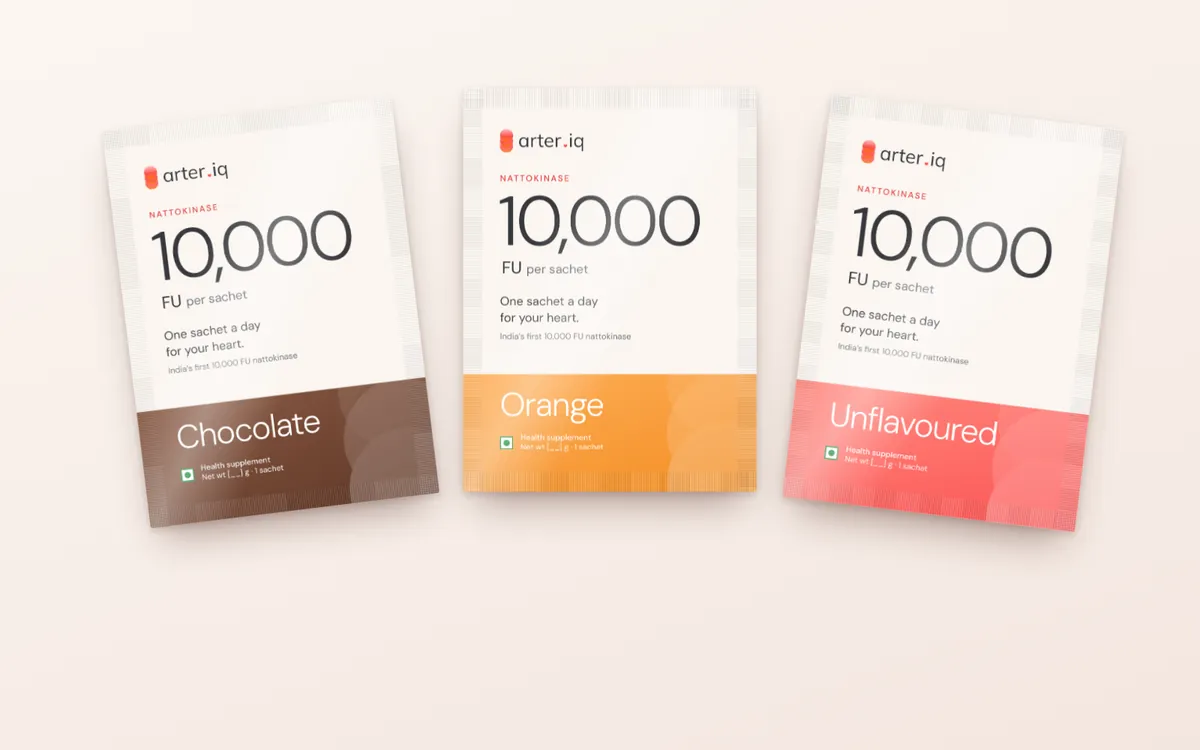
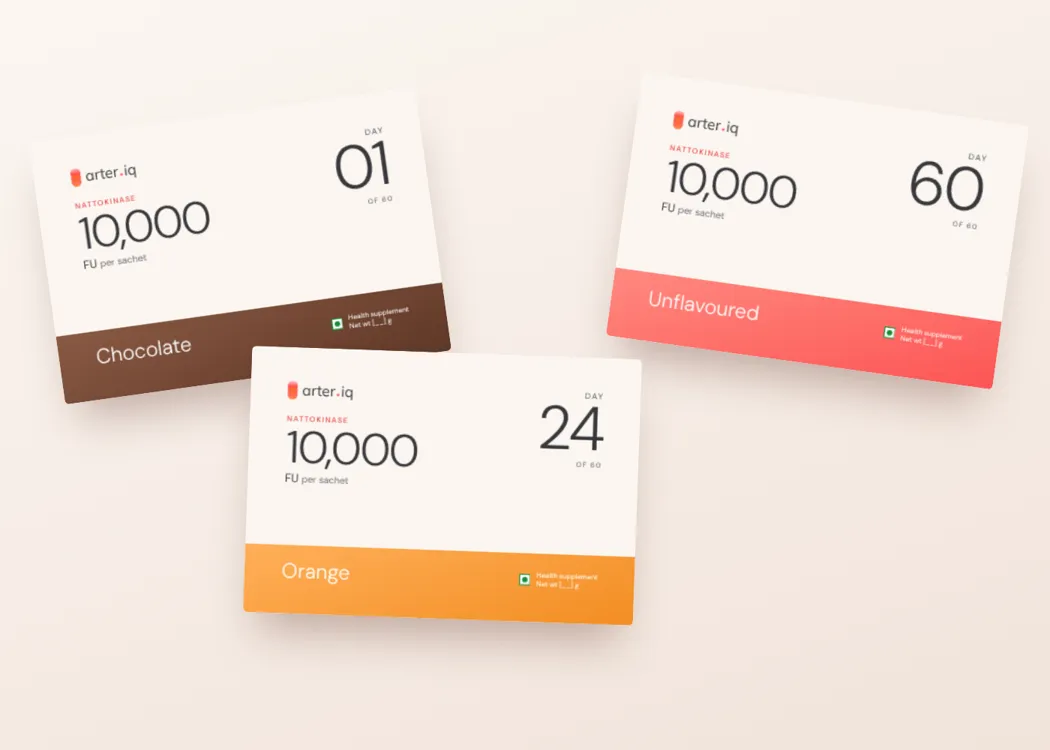
Proof Loop Protocol 60 Box: new packaging, flavour picker merged into offer
Claude-Session: https://claude.ai/code/session_01PkeobWmfrChtD7SqVdFZLv

Changed region(s): [[0.0305, 0.1533, 0.9752, 0.8893]]

diff --git a/index.html b/index.html
@@ -690,6 +690,30 @@ a{color:#4A5163}a:hover{color:#E63E3E}
 .opb::before{content:"";width:14px;height:14px;border-radius:50%;background:var(--fc)}
 .opb.on{border-color:var(--fc);box-shadow:0 0 0 1px var(--fc) inset}
 @media (max-width:1000px){.flg{grid-template-columns:minmax(0,1fr);gap:20px}.flc{padding:16px 18px}.fln{font-size:20px}.fld{width:36px;height:36px}.flrange{margin-top:28px;border-radius:24px}.flv{border-radius:24px}}
+/* p60 merged offer */
+.offrow{grid-template-columns:minmax(0,1fr)!important;gap:22px!important}
+.p60{display:grid;grid-template-columns:minmax(0,1.05fr) minmax(0,1fr);border-radius:40px;overflow:hidden;background:rgba(255,255,255,.96);border:1px solid rgba(255,255,255,.95);box-shadow:0 50px 100px -40px rgba(160,40,40,.35)}
+.p60v{position:relative;display:flex;flex-direction:column;justify-content:center;gap:16px;padding:18px;background:linear-gradient(170deg,#FBF6F1,#EFE2DA);overflow:hidden}.p60img{position:relative;aspect-ratio:1/1.01;border-radius:26px;overflow:hidden}
+.p60v .flimg{object-fit:cover;object-position:50% 40%}
+.p60badge{position:absolute;left:34px;top:34px;z-index:2;padding:9px 14px;border-radius:999px;background:rgba(255,255,255,.9);font-size:13px;color:#4A5163}
+.p60badge b{font-weight:500}
+.p60t{position:relative;display:grid;grid-template-columns:1fr 1fr;gap:12px}
+.p60t figure{margin:0;border-radius:18px;overflow:hidden;background:rgba(255,255,255,.92);box-shadow:0 18px 40px -24px rgba(90,40,30,.5)}
+.p60t img{display:block;width:100%;aspect-ratio:16/10;object-fit:cover}
+.p60t figcaption{padding:8px 12px 10px;font-size:12px;color:#5A6080}
+.ostep{display:flex;flex-direction:column;gap:2px}
+.osn{display:inline-grid;place-items:center;width:22px;height:22px;margin-right:10px;border-radius:50%;background:#FC5050;color:#fff;font-size:11px;letter-spacing:0;vertical-align:1px}
+.flr3{display:grid;grid-template-columns:repeat(3,minmax(0,1fr));gap:10px}
+.p60 .flc{display:flex;flex-direction:column;align-items:flex-start;gap:6px;padding:16px 16px 14px;border-radius:20px;position:relative}
+.p60 .flc .fld{width:30px;height:30px}.p60 .flc .fln{font-size:18px}.p60 .flc .flt{font-size:12.5px}
+.p60 .flc.on::after{content:"✓";position:absolute;right:12px;top:12px;width:20px;height:20px;border-radius:50%;background:var(--fc);color:#fff;font-size:11px;display:grid;place-items:center}
+.osub{font-size:14px;color:#7E8495}
+.obuy{display:flex;align-items:flex-end;justify-content:space-between;gap:16px;flex-wrap:wrap;padding-top:6px;border-top:1px solid #F1ECE8}
+.caps{display:grid!important;grid-template-columns:220px minmax(0,1fr) auto;align-items:center;gap:30px!important;padding:26px 34px!important}
+.caps .capimg{height:180px;width:220px}
+.capm{display:flex;flex-direction:column;gap:8px}.caps .caph{font-size:32px;margin:0}
+.caps .capf{margin:0;padding:0;flex-direction:column;align-items:flex-end}
+@media (max-width:1000px){.p60{grid-template-columns:minmax(0,1fr);border-radius:28px}.p60v{padding:12px;gap:10px}.p60img{border-radius:18px}.p60badge{left:22px;top:22px}.p60t{gap:8px}.p60t figcaption{font-size:11px;padding:6px 9px 8px}.flr3{gap:8px}.p60 .flc{padding:12px 10px}.p60 .flc .fln{font-size:15px}.p60 .flc .flt{display:none}.p60 .obody{padding:26px 20px}.p60 .h2{font-size:32px!important}.caps{grid-template-columns:minmax(0,1fr)!important;padding:24px 20px!important;gap:14px!important}.caps .capimg{width:100%;height:220px}.caps .capf{flex-direction:row;align-items:flex-end;justify-content:space-between}}
 /* reviews */
 .rvrow{display:flex;gap:20px;width:max-content;animation:marq 70s linear infinite}
 .rvrow.rev{animation:marqr 80s linear infinite}
@@ -867,7 +891,7 @@ a{color:#4A5163}a:hover{color:#E63E3E}
 <div class="sprog" aria-hidden="true"></div>
 <header class="hdr"><div class="hbar">
 <a href="#top" aria-label="Arter.IQ home" style="text-decoration:none"><span style="display:inline-flex;align-items:center;gap:7px"><svg width="19" height="35" viewBox="0 0 22 40" aria-hidden="true" style="flex:none"><defs><linearGradient id="lm1" x1="0" y1="0" x2="0" y2="1"><stop offset="0" stop-color="#FFC4BE"></stop><stop offset=".55" stop-color="#FC5050"></stop><stop offset="1" stop-color="#FE7A15"></stop></linearGradient></defs><circle cx="11" cy="29" r="11" fill="url(#lm1)" opacity=".85"></circle><circle cx="11" cy="20" r="11" fill="url(#lm1)" opacity=".92"></circle><circle cx="11" cy="11" r="11" fill="url(#lm1)"></circle></svg><span class="logo" style="font-size:28px;color:#FFFFFF">arter<svg viewBox="0 0 24 24" aria-hidden="true" style="display:inline-block;width:.24em;height:.24em;margin:0 .07em 0 .09em;vertical-align:baseline"><path fill="#FC5050" d="M12 21s-7.5-4.6-9.6-9.2C.9 8.5 3 4.5 6.8 4.5c2.2 0 3.6 1.2 5.2 3 1.6-1.8 3-3 5.2-3 3.8 0 5.9 4 4.4 7.3C19.5 16.4 12 21 12 21Z"></path></svg>iq</span></span></a>
-<nav class="hnav" aria-label="Main"><a href="#offer">Protocol 60 <svg width="12" height="12" viewBox="0 0 24 24" fill="none" stroke="currentColor" stroke-width="2" aria-hidden="true"><path d="m6 9 6 6 6-6"></path></svg></a><a href="#offer">Capsules <svg width="12" height="12" viewBox="0 0 24 24" fill="none" stroke="currentColor" stroke-width="2" aria-hidden="true"><path d="m6 9 6 6 6-6"></path></svg></a><a href="#protocol">How it works</a><a href="#flavours">Flavours</a><a href="#why">Why it matters</a><a href="#evidence">Evidence</a><a href="#faq">FAQ</a></nav>
+<nav class="hnav" aria-label="Main"><a href="#offer">Protocol 60 <svg width="12" height="12" viewBox="0 0 24 24" fill="none" stroke="currentColor" stroke-width="2" aria-hidden="true"><path d="m6 9 6 6 6-6"></path></svg></a><a href="#offer">Capsules <svg width="12" height="12" viewBox="0 0 24 24" fill="none" stroke="currentColor" stroke-width="2" aria-hidden="true"><path d="m6 9 6 6 6-6"></path></svg></a><a href="#protocol">How it works</a><a href="#offer">Flavours</a><a href="#why">Why it matters</a><a href="#evidence">Evidence</a><a href="#faq">FAQ</a></nav>
 <a class="hcta" href="#offer">Start Protocol 60<span class="hcta-i"><svg width="16" height="16" viewBox="0 0 24 24" fill="none" stroke="#E63E3E" stroke-width="2.2" stroke-linecap="round" stroke-linejoin="round" aria-hidden="true"><path d="M5 12h14M13 6l6 6-6 6"></path></svg></span></a>
 </div></header>
 
@@ -898,11 +922,6 @@ a{color:#4A5163}a:hover{color:#E63E3E}
 <div class="pils"><article class="pil rise" style="animation-delay:0.0s"><div class="pilimg"><img src="images/fibrin-w.webp" alt="" loading="lazy" decoding="async"><span class="piltag">Precise dose</span></div><div class="pilbody"><div class="pilhd"><span class="pilnum grad"><span class="cnt" style="--to:1"></span></span><h3 class="piltt">Enzyme</h3></div><p class="pilp">10,000 FU of nattokinase, made from fermented soybean. It helps break down fibrin, the protein mesh involved in forming clots.</p></div></article><article class="pil rise" style="animation-delay:0.12s"><div class="pilimg"><img src="images/pk-sachets.webp" alt="" loading="lazy" decoding="async"><span class="piltag">Every day</span></div><div class="pilbody"><div class="pilhd"><span class="pilnum grad"><span class="cnt" style="--to:1"></span></span><h3 class="piltt">Sachet a day</h3></div><p class="pilp">Stir one into water every morning. It takes thirty seconds and becomes a lifelong habit. Your first 60 sachets are numbered, one for each day.</p></div></article><article class="pil rise" style="animation-delay:0.24s"><div class="pilimg"><img src="images/m-kits.webp" alt="" loading="lazy" decoding="async"><span class="piltag">At home</span></div><div class="pilbody"><div class="pilhd"><span class="pilnum grad"><span class="cnt" style="--to:2"></span></span><h3 class="piltt">Blood tests</h3></div><p class="pilp">A home blood draw before you start and again at day 60, at the same lab, so you can see your own change side by side.</p></div></article></div>
 </div></section>
 
-<section id="flavours" class="sec fls"><div class="wrap">
-<div class="head rise"><div><p class="mono" style="margin-bottom:14px">Three flavours, one sachet</p><h2 class="disp h2">Pick your <span class="grad">flavour.</span></h2></div><p class="lead">Same 10,000 FU in every sachet. Choose the taste that fits your morning, or mix flavours across your 60 days.</p></div>
-<div class="flg"><div class="flv rise"><img class="flimg" data-fli="chocolate" src="images/pk-box-chocolate.webp" alt="arteriq Chocolate box and sachet" loading="lazy" decoding="async"><img class="flimg on" data-fli="orange" src="images/pk-box-orange.webp" alt="arteriq Orange box and sachet" loading="lazy" decoding="async"><img class="flimg" data-fli="unflavoured" src="images/pk-box-unflavoured.webp" alt="arteriq Unflavoured box and sachet" loading="lazy" decoding="async"></div><div class="flr rise"><button class="flc" type="button" data-fl="chocolate" style="--fc:#5B3424"><span class="fld"></span><span class="fln">Chocolate</span><span class="flt">Rich cocoa. Tastes like a treat.</span></button><button class="flc on" type="button" data-fl="orange" style="--fc:#F28A1E"><span class="fld"></span><span class="fln">Orange</span><span class="flt">Bright citrus. A fresh morning start.</span></button><button class="flc" type="button" data-fl="unflavoured" style="--fc:#FC5050"><span class="fld"></span><span class="fln">Unflavoured</span><span class="flt">Neutral. Stir into anything you like.</span></button><p class="fls1">30 sachets per box · 10,000 FU each · Made in India</p></div></div>
-<img class="flrange rise" src="images/pk-range.webp" alt="arteriq Chocolate, Orange and Unflavoured boxes with sachets" loading="lazy" decoding="async">
-</div></section>
 <section class="pin" aria-label="Your heart, your numbers"><div class="pinst"><img class="pinbg" loading="lazy" decoding="async" src="images/bg-bokeh.webp" alt="" aria-hidden="true"><div class="pinwash"></div><div class="pinw"><div class="pw on" data-pw="0"><p class="pwh">Your heart.</p><p class="pws">Deserves attention before it asks for it.</p></div><div class="pw" data-pw="1"><p class="pwh">Your numbers.</p><p class="pws">Fibrinogen, lipids and ApoB, measured at home.</p></div><div class="pw" data-pw="2"><p class="pwh">Day 0.</p><p class="pws">Your baseline, before the first sachet.</p></div><div class="pw" data-pw="3"><p class="pwh">Day 60.</p><p class="pws">The same test, the same lab. Your answer.</p></div></div><div class="pind" aria-hidden="true"><i class="on"></i><i class=""></i><i class=""></i><i class=""></i></div></div></section>
 <section id="evidence" class="sec evsec"><div class="wrap">
 <div class="head rise" style="align-items:flex-end"><div><p class="mono" style="margin-bottom:14px">The research, in plain words</p><h2 class="disp h2">Built for the systems <span class="grad">behind your heart.</span></h2></div><p class="lead">Heart health is a network of connected systems. Explore what published studies of nattokinase have observed in each one.</p></div>
@@ -919,23 +938,26 @@ a{color:#4A5163}a:hover{color:#E63E3E}
 <section id="offer" class="sec offsec"><div class="wrap">
 <div class="offhead"><p class="mono">Choose how you start</p><h2 class="disp h2">Two ways to <span class="grad">take the leap.</span></h2></div>
 <div class="offrow">
-<div class="offer rise">
+<div class="p60 rise">
+<div class="p60v"><div class="p60img"><img class="flimg" data-fli="chocolate" src="images/p60-open-chocolate.webp" alt="Proof Loop Protocol 60 Box opened, Chocolate inside" loading="lazy" decoding="async"><img class="flimg on" data-fli="orange" src="images/p60-open-orange.webp" alt="Proof Loop Protocol 60 Box opened, Orange inside" loading="lazy" decoding="async"><img class="flimg" data-fli="unflavoured" src="images/p60-open-unflavoured.webp" alt="Proof Loop Protocol 60 Box opened, Unflavoured inside" loading="lazy" decoding="async"></div><span class="p60badge">Inside your box · <b data-flname>Orange</b></span>
+<div class="p60t"><figure><img src="images/p60-closed.webp" alt="Closed Protocol 60 Box" loading="lazy" decoding="async"><figcaption>Same box outside</figcaption></figure><figure><img src="images/p60-drawer.webp" alt="Travel and Sauna drawer pulled out" loading="lazy" decoding="async"><figcaption>Travel &amp; Sauna drawer</figcaption></figure></div></div>
 <div class="obody">
 <p style="margin:0;font-size:14px;color:#6A7080"><span style="display:inline-flex;gap:2px" role="img" aria-label="5 out of 5 stars"><svg width="13" height="13" viewBox="0 0 24 24" fill="#FF9C80" aria-hidden="true"><path d="M12 2.5l2.9 6 6.6.8-4.9 4.6 1.3 6.6L12 17.3l-5.9 3.2 1.3-6.6L2.5 9.3l6.6-.8L12 2.5Z"></path></svg><svg width="13" height="13" viewBox="0 0 24 24" fill="#FF9C80" aria-hidden="true"><path d="M12 2.5l2.9 6 6.6.8-4.9 4.6 1.3 6.6L12 17.3l-5.9 3.2 1.3-6.6L2.5 9.3l6.6-.8L12 2.5Z"></path></svg><svg width="13" height="13" viewBox="0 0 24 24" fill="#FF9C80" aria-hidden="true"><path d="M12 2.5l2.9 6 6.6.8-4.9 4.6 1.3 6.6L12 17.3l-5.9 3.2 1.3-6.6L2.5 9.3l6.6-.8L12 2.5Z"></path></svg><svg width="13" height="13" viewBox="0 0 24 24" fill="#FF9C80" aria-hidden="true"><path d="M12 2.5l2.9 6 6.6.8-4.9 4.6 1.3 6.6L12 17.3l-5.9 3.2 1.3-6.6L2.5 9.3l6.6-.8L12 2.5Z"></path></svg><svg width="13" height="13" viewBox="0 0 24 24" fill="#FF9C80" aria-hidden="true"><path d="M12 2.5l2.9 6 6.6.8-4.9 4.6 1.3 6.6L12 17.3l-5.9 3.2 1.3-6.6L2.5 9.3l6.6-.8L12 2.5Z"></path></svg></span> <span class="cnt" style="--to:30"></span>+ doctors across India recommend Arter.IQ</p>
-<h2 class="disp h2" style="font-size:46px">One sachet a day, <span class="grad">proven in 60.</span></h2>
-<div>
-<div class="oline"><span class="oicon"><svg width="20" height="20" viewBox="0 0 24 24" fill="none" stroke="currentColor" stroke-width="1.7" stroke-linecap="round" stroke-linejoin="round" aria-hidden="true"><path d="M12 20s-7-4.3-8.8-8.6C2 8.3 4 5 7.2 5c2 0 3.3 1.1 4.8 2.8C13.5 6.1 14.8 5 16.8 5 20 5 22 8.3 20.8 11.4 19 15.7 12 20 12 20Z"></path></svg></span><span><strong>Sachets ×60</strong><br><span style="font-size:14px;color:#7E8495">10,000 FU nattokinase, your first 60 days</span></span><span></span></div>
-<div class="oline"><span class="oicon"><svg width="20" height="20" viewBox="0 0 24 24" fill="none" stroke="currentColor" stroke-width="1.7" stroke-linecap="round" stroke-linejoin="round" aria-hidden="true"><path d="M12 3c3 4 6 7.5 6 11a6 6 0 0 1-12 0c0-3.5 3-7 6-11Z"></path></svg></span><span><strong>Test 1 + Test 2</strong><br><span style="font-size:14px;color:#7E8495">Home blood draws, day 0 and day 60</span></span><span class="free">FREE</span></div>
-<div class="oline"><span class="oicon"><svg width="20" height="20" viewBox="0 0 24 24" fill="none" stroke="currentColor" stroke-width="1.7" stroke-linecap="round" stroke-linejoin="round" aria-hidden="true"><circle cx="12" cy="8" r="4"></circle><path d="M4 21c1.5-4 4.5-6 8-6s6.5 2 8 6"></path></svg></span><span><strong>Specialist consultation</strong><br><span style="font-size:14px;color:#7E8495">One-to-one, after Test 2</span></span><span class="free">FREE</span></div>
-<div class="oline" style="border-bottom:0"><span class="oicon"><svg width="20" height="20" viewBox="0 0 24 24" fill="none" stroke="currentColor" stroke-width="1.7" stroke-linecap="round" stroke-linejoin="round" aria-hidden="true"><path d="M4 20l1.5-4A8 8 0 1 1 8 18.5L4 20Z"></path></svg></span><span><strong>WhatsApp concierge</strong><br><span style="font-size:14px;color:#7E8495">Reminders while the habit forms</span></span><span class="free">FREE</span></div>
+<div><p class="mono" style="margin:0 0 8px">Proof Loop Protocol 60 Box</p><h2 class="disp h2" style="font-size:44px;margin:0">One sachet a day, <span class="grad">proven in 60.</span></h2></div>
+<div class="ostep"><p class="opl"><span class="osn">1</span>Pick your flavour</p><div class="flr3" role="group" aria-label="Flavour"><button class="flc" type="button" data-fl="chocolate" data-fln="Chocolate" style="--fc:#5B3424" aria-pressed="false"><span class="fld"></span><span class="fln">Chocolate</span><span class="flt">Rich cocoa</span></button><button class="flc on" type="button" data-fl="orange" data-fln="Orange" style="--fc:#F28A1E" aria-pressed="true"><span class="fld"></span><span class="fln">Orange</span><span class="flt">Bright citrus</span></button><button class="flc" type="button" data-fl="unflavoured" data-fln="Unflavoured" style="--fc:#FC5050" aria-pressed="false"><span class="fld"></span><span class="fln">Unflavoured</span><span class="flt">Mix into anything</span></button></div><p class="fls1">Same 10,000 FU in every sachet. The box looks the same outside; the inside, sachets and shots are your flavour.</p></div>
+<div class="ostep"><p class="opl"><span class="osn">2</span>What's in your box</p>
+<div class="oline"><span class="oicon"><svg width="20" height="20" viewBox="0 0 24 24" fill="none" stroke="currentColor" stroke-width="1.7" stroke-linecap="round" stroke-linejoin="round" aria-hidden="true"><path d="M12 20s-7-4.3-8.8-8.6C2 8.3 4 5 7.2 5c2 0 3.3 1.1 4.8 2.8C13.5 6.1 14.8 5 16.8 5 20 5 22 8.3 20.8 11.4 19 15.7 12 20 12 20Z"></path></svg></span><span><strong>60 sachets, numbered by day</strong><br><span class="osub">10,000 FU nattokinase · <span data-flname>Orange</span></span></span><span></span></div>
+<div class="oline"><span class="oicon"><svg width="20" height="20" viewBox="0 0 24 24" fill="none" stroke="currentColor" stroke-width="1.7" stroke-linecap="round" stroke-linejoin="round" aria-hidden="true"><path d="M3 7h11v9H3zM14 10h4l3 3v3h-7"></path><circle cx="7" cy="18" r="1.6"></circle><circle cx="17" cy="18" r="1.6"></circle></svg></span><span><strong>6 Travel &amp; Sauna shots</strong><br><span class="osub">In a pull-out drawer that travels with you</span></span><span></span></div>
+<div class="oline"><span class="oicon"><svg width="20" height="20" viewBox="0 0 24 24" fill="none" stroke="currentColor" stroke-width="1.7" stroke-linecap="round" stroke-linejoin="round" aria-hidden="true"><path d="M12 3c3 4 6 7.5 6 11a6 6 0 0 1-12 0c0-3.5 3-7 6-11Z"></path></svg></span><span><strong>Test 1 + Test 2 kits</strong><br><span class="osub">Home blood draws, day 0 and days 56–60</span></span><span class="free">FREE</span></div>
+<div class="oline"><span class="oicon"><svg width="20" height="20" viewBox="0 0 24 24" fill="none" stroke="currentColor" stroke-width="1.7" stroke-linecap="round" stroke-linejoin="round" aria-hidden="true"><circle cx="12" cy="8" r="4"></circle><path d="M4 21c1.5-4 4.5-6 8-6s6.5 2 8 6"></path></svg></span><span><strong>1:1 specialist review</strong><br><span class="osub">Doctor connect QR, after Test 2</span></span><span class="free">FREE</span></div>
+<div class="oline" style="border-bottom:0"><span class="oicon"><svg width="20" height="20" viewBox="0 0 24 24" fill="none" stroke="currentColor" stroke-width="1.7" stroke-linecap="round" stroke-linejoin="round" aria-hidden="true"><path d="M4 20l1.5-4A8 8 0 1 1 8 18.5L4 20Z"></path></svg></span><span><strong>WhatsApp concierge</strong><br><span class="osub">Safety screen, bookings, daily reminders</span></span><span class="free">FREE</span></div>
 </div>
-<div class="opick"><p class="opl">Choose your flavour</p><div class="opc"><button type="button" class="opb" style="--fc:#5B3424">Chocolate</button><button type="button" class="opb on" style="--fc:#F28A1E">Orange</button><button type="button" class="opb" style="--fc:#FC5050">Unflavoured</button></div></div>
-<p class="onext">After day 60, keep going every day with Arter.IQ Capsules, the same 10,000 FU dose. Your specialist helps you plan the long run.</p>
-<div style="display:flex;align-items:flex-end;justify-content:space-between;gap:16px;flex-wrap:wrap"><div><p class="price" style="font-size:52px"><s class="strike">₹14,999</s>₹<span class="cnt kr" style="--to:9999"></span></p><p style="margin:6px 0 0;font-size:13px;color:#7E8495">MRP incl. of all taxes · about ₹167 a day</p></div><a class="btn btn-pri" href="#buy">Start Protocol 60</a></div>
+<div class="obuy"><div><p class="price" style="font-size:50px"><s class="strike">₹14,999</s>₹<span class="cnt kr" style="--to:9999"></span></p><p style="margin:6px 0 0;font-size:13px;color:#7E8495">MRP incl. of all taxes · about ₹167 a day</p></div><a class="btn btn-pri" id="p60buy" href="#buy?flavour=orange">Start with <span data-flname>Orange</span></a></div>
+<p class="onext">After day 60, keep going every day with Arter.IQ Capsules, the same 10,000 FU dose.</p>
 <div class="chips"><span class="chip mii">🇮🇳 Made in India</span><span class="chip"><svg width="14" height="14" viewBox="0 0 24 24" fill="none" stroke="#E63E3E" stroke-width="1.7" stroke-linecap="round" stroke-linejoin="round" aria-hidden="true"><path d="M3 7h11v9H3zM14 10h4l3 3v3h-7"></path><circle cx="7" cy="18" r="1.6"></circle><circle cx="17" cy="18" r="1.6"></circle></svg>Free shipping across India</span><span class="chip"><svg width="14" height="14" viewBox="0 0 24 24" fill="none" stroke="#E63E3E" stroke-width="1.7" stroke-linecap="round" stroke-linejoin="round" aria-hidden="true"><circle cx="12" cy="8" r="4"></circle><path d="M4 21c1.5-4 4.5-6 8-6s6.5 2 8 6"></path></svg>Doctor reviewed</span></div>
 </div>
 </div>
-<div class="caps rise"><span class="captag">For every day after</span><img class="capimg" src="images/m-caps.webp" alt="Arter.IQ Capsules box" loading="lazy" decoding="async"><h3 class="disp caph">Capsules</h3><p class="capd">The same 10,000 FU dose in a capsule. For the long run after Protocol 60, or if you prefer capsules.</p><ul class="capl"><li><svg width="14" height="14" viewBox="0 0 24 24" fill="none" stroke="#FC5050" stroke-width="2.4" stroke-linecap="round" stroke-linejoin="round" aria-hidden="true"><path d="m5 12 4 4 10-10"></path></svg>10,000 FU nattokinase, one a day</li><li><svg width="14" height="14" viewBox="0 0 24 24" fill="none" stroke="#FC5050" stroke-width="2.4" stroke-linecap="round" stroke-linejoin="round" aria-hidden="true"><path d="m5 12 4 4 10-10"></path></svg>60 capsules per box</li><li><svg width="14" height="14" viewBox="0 0 24 24" fill="none" stroke="#B0A9A4" stroke-width="2.4" stroke-linecap="round" stroke-linejoin="round" aria-hidden="true"><circle cx="12" cy="12" r="9"></circle><path d="M8 12h8"></path></svg>Blood tests and specialist not included</li></ul><div class="capf"><p class="price" style="font-size:44px;margin:0"><s class="strike">₹13,999</s>₹<span class="cnt kr" style="--to:8999"></span></p><a class="btn btn-sec" href="#capsules">Buy Capsules</a></div></div>
+<div class="caps rise"><img class="capimg" src="images/m-caps.webp" alt="Arter.IQ Capsules box" loading="lazy" decoding="async"><div class="capm"><span class="captag">Or, for every day after</span><h3 class="disp caph">Capsules</h3><p class="capd">The same 10,000 FU dose in a capsule. For the long run after Protocol 60, or if you prefer capsules.</p><ul class="capl"><li><svg width="14" height="14" viewBox="0 0 24 24" fill="none" stroke="#FC5050" stroke-width="2.4" stroke-linecap="round" stroke-linejoin="round" aria-hidden="true"><path d="m5 12 4 4 10-10"></path></svg>10,000 FU nattokinase, one a day</li><li><svg width="14" height="14" viewBox="0 0 24 24" fill="none" stroke="#FC5050" stroke-width="2.4" stroke-linecap="round" stroke-linejoin="round" aria-hidden="true"><path d="m5 12 4 4 10-10"></path></svg>60 capsules per box</li><li><svg width="14" height="14" viewBox="0 0 24 24" fill="none" stroke="#B0A9A4" stroke-width="2.4" stroke-linecap="round" stroke-linejoin="round" aria-hidden="true"><circle cx="12" cy="12" r="9"></circle><path d="M8 12h8"></path></svg>Blood tests and specialist not included</li></ul></div><div class="capf"><p class="price" style="font-size:40px;margin:0"><s class="strike">₹13,999</s>₹<span class="cnt kr" style="--to:8999"></span></p><a class="btn btn-sec" href="#capsules">Buy Capsules</a></div></div>
 </div>
 </div></section>
 
@@ -1041,7 +1063,7 @@ var mc=document.querySelector('.mcta'),hero=document.querySelector('#top');
 if(mc){addEventListener('scroll',function(){var off=document.querySelector('#offer'),r=off?off.getBoundingClientRect():null;var inOffer=r&&r.top<innerHeight&&r.bottom>0;mc.classList.toggle('on',scrollY>innerHeight*.8&&!inOffer);},{passive:true});}
 
 var flc=[].slice.call(document.querySelectorAll('.flc')),fli=[].slice.call(document.querySelectorAll('.flimg'));
-flc.forEach(function(b){b.addEventListener('click',function(){var k=b.getAttribute('data-fl');flc.forEach(function(x){x.classList.toggle('on',x===b);});fli.forEach(function(im){im.classList.toggle('on',im.getAttribute('data-fli')===k);});});});
+flc.forEach(function(b){b.addEventListener('click',function(){var k=b.getAttribute('data-fl'),nm=b.getAttribute('data-fln');flc.forEach(function(x){x.classList.toggle('on',x===b);x.setAttribute('aria-pressed',x===b?'true':'false');});[].slice.call(document.querySelectorAll('[data-flname]')).forEach(function(e){e.textContent=nm;});var bb=document.getElementById('p60buy');if(bb)bb.setAttribute('href','#buy?flavour='+k);fli.forEach(function(im){im.classList.toggle('on',im.getAttribute('data-fli')===k);});});});
 [].slice.call(document.querySelectorAll('.opc')).forEach(function(g){var bs=[].slice.call(g.querySelectorAll('.opb'));bs.forEach(function(b){b.addEventListener('click',function(){bs.forEach(function(x){x.classList.toggle('on',x===b);});});});});
 var fq=document.querySelectorAll('[data-fq]');
 fq.forEach(function(b){b.addEventListener('click',function(){var i=b.getAttribute('data-fq');var open=b.getAttribute('aria-expanded')==='true';
